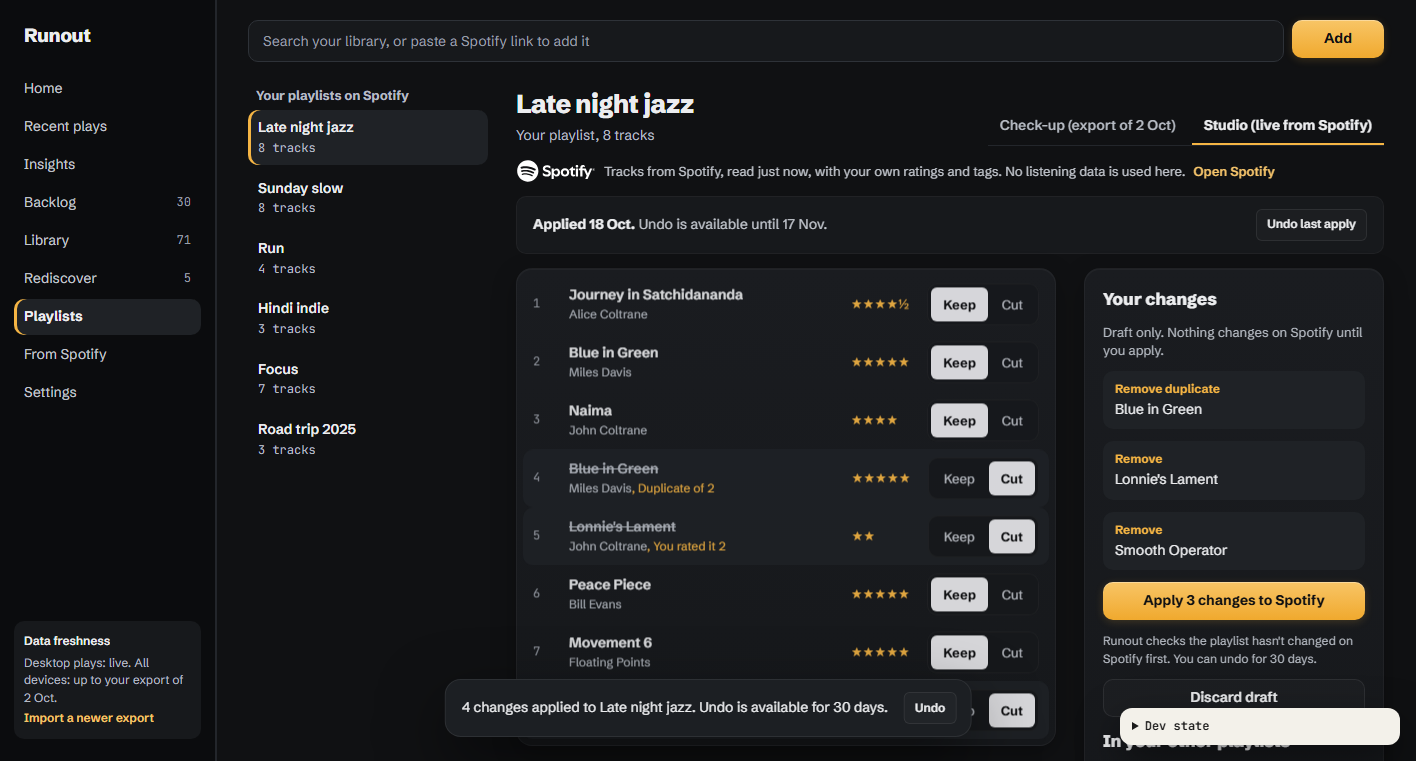
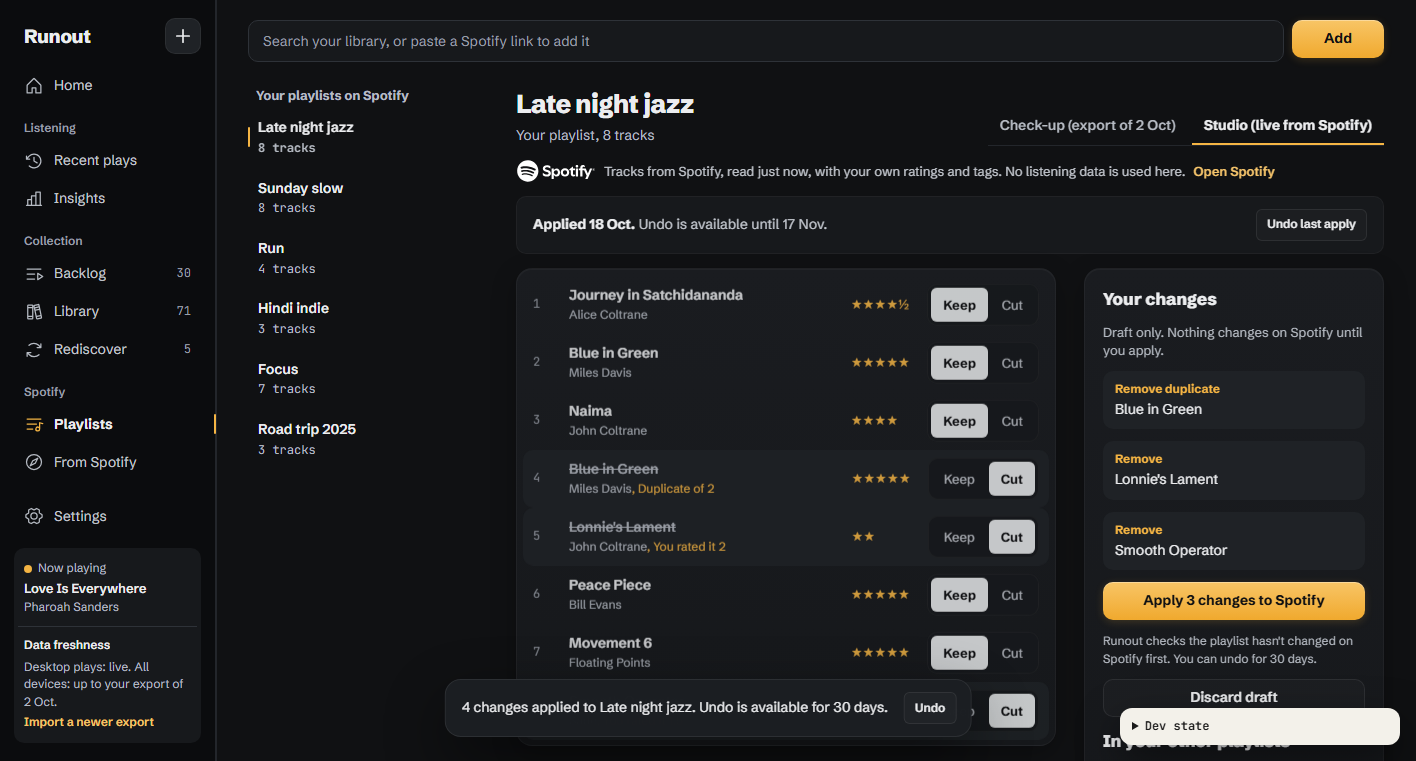
M9 rail redesign: grouped nav, visible Quick add, now playing on every screen, marker selected state
- Rail: wordmark + Quick add (Ctrl+N made visible); Home, then Listening / Collection / Spotify
  groups (12px faint names, icons always shown); Settings apart at the foot
- One status card: Now playing (live dot, track, artist; opens Home) above data freshness
- Selected page (user: pill + accent edge looked generic): no fill, bright bold label, accent
  icon, a 2x20 accent marker on the rail divider that springs between pages; list rows match
- Collapsed rail (<1100px): icons with tooltips, groups as hairlines, status card hidden
- DESIGN §4 shell + selected state documented

diff --git a/src/components/Shell.tsx b/src/components/Shell.tsx
@@ -1,15 +1,17 @@
-// App shell (DESIGN §4): rail with nav + mono counts + freshness box, main column, offline banner,
+// App shell (DESIGN §4): rail (wordmark + Quick add, grouped nav with one springing indicator, Settings at the foot,
+// status card = now playing + freshness), main column, offline banner,
 // global quick-add dialog and shortcuts. Pages render their own <Topbar>.
-import { lazy, Suspense, useCallback, useEffect, useState, type FormEvent, type ReactNode } from "react";
+import { lazy, Suspense, useCallback, useEffect, useLayoutEffect, useRef, useState, type FormEvent, type ReactNode } from "react";
 import { NavLink, Outlet, useLocation, useNavigate } from "react-router-dom";
 import {
-  ArrowsClockwiseIcon, BooksIcon, ChartBarIcon, ClockCounterClockwiseIcon, CompassIcon, GearSixIcon, HouseIcon, PlaylistIcon, QueueIcon,
+  ArrowsClockwiseIcon, BooksIcon, ChartBarIcon, ClockCounterClockwiseIcon, CompassIcon, GearSixIcon, HouseIcon, PlaylistIcon, PlusIcon, QueueIcon,
 } from "@phosphor-icons/react";
-import { getCapture, getCounts, getFreshness, getLoggerStatus, invalidateOnDataEvents, MOCK, onEvent, recordPageVisit } from "../api";
+import { getCapture, getCounts, getFreshness, getLoggerStatus, invalidateOnDataEvents, MOCK, onEvent, recordPageVisit, type LoggerStatus } from "../api";
 import { useApi, useOnline } from "../hooks/useApi";
 import { useRelease } from "../hooks/useRelease";
 import { useShortcuts, type ShortcutAction } from "../hooks/useShortcuts";
 import { fieldButton, freshnessText } from "./logic";
+import { LiveDot } from "./ui";
 import { QuickAddCtx, useQuickAdd, type QuickAddOpts } from "./QuickAddContext";
 import QuickAdd from "./QuickAdd";
 import { pl } from "../lib/format";
@@ -17,34 +19,86 @@ import { pl } from "../lib/format";
 // Dev builds only: a shipped build drops the switcher. The mocks themselves go only when VITE_MOCK=0 (api.ts).
 const DevSwitcher = import.meta.env.DEV && MOCK ? lazy(() => import("./DevSwitcher")) : () => null;
 
-const NAV: { to: string; label: string; icon: ReactNode; count?: "backlog" | "library" | "revisit"; rel?: "r2" | "r3" }[] = [
-  { to: "/home", label: "Home", icon: <HouseIcon size={20} /> },
-  { to: "/plays", label: "Recent plays", icon: <ClockCounterClockwiseIcon size={20} />, rel: "r2" },
-  { to: "/insights", label: "Insights", icon: <ChartBarIcon size={20} />, rel: "r2" },
-  { to: "/backlog", label: "Backlog", icon: <QueueIcon size={20} />, count: "backlog" },
-  { to: "/library", label: "Library", icon: <BooksIcon size={20} />, count: "library" },
-  { to: "/rediscover", label: "Rediscover", icon: <ArrowsClockwiseIcon size={20} />, count: "revisit" },
-  { to: "/playlists", label: "Playlists", icon: <PlaylistIcon size={20} />, rel: "r2" },
-  { to: "/spotify", label: "From Spotify", icon: <CompassIcon size={20} />, rel: "r3" },
-  { to: "/settings", label: "Settings", icon: <GearSixIcon size={20} /> },
+type Nav = { to: string; label: string; icon: ReactNode; count?: "backlog" | "library" | "revisit"; rel?: "r2" | "r3" };
+// M9 rail: grouped by what you're doing (DESIGN §4). Home stands alone; Settings sits apart at the bottom.
+const GROUPS: { name?: string; items: Nav[] }[] = [
+  { items: [{ to: "/home", label: "Home", icon: <HouseIcon size={20} /> }] },
+  { name: "Listening", items: [
+    { to: "/plays", label: "Recent plays", icon: <ClockCounterClockwiseIcon size={20} />, rel: "r2" },
+    { to: "/insights", label: "Insights", icon: <ChartBarIcon size={20} />, rel: "r2" },
+  ] },
+  { name: "Collection", items: [
+    { to: "/backlog", label: "Backlog", icon: <QueueIcon size={20} />, count: "backlog" },
+    { to: "/library", label: "Library", icon: <BooksIcon size={20} />, count: "library" },
+    { to: "/rediscover", label: "Rediscover", icon: <ArrowsClockwiseIcon size={20} />, count: "revisit" },
+  ] },
+  { name: "Spotify", items: [
+    { to: "/playlists", label: "Playlists", icon: <PlaylistIcon size={20} />, rel: "r2" },
+    { to: "/spotify", label: "From Spotify", icon: <CompassIcon size={20} />, rel: "r3" },
+  ] },
 ];
+const SETTINGS: Nav = { to: "/settings", label: "Settings", icon: <GearSixIcon size={20} /> };
 
 function Rail() {
   const { r2, r3 } = useRelease();
   const counts = useApi(getCounts).data;
+  const add = useQuickAdd();
+  const loc = useLocation();
+  const ref = useRef<HTMLElement>(null);
+  // One accent marker on the rail edge springs to the current page (same spring as the tabs).
+  const [ind, setInd] = useState<{ y: number } | null>(null);
+  useLayoutEffect(() => {
+    const el = ref.current;
+    if (!el) return;
+    const place = () => {
+      const a = el.querySelector<HTMLElement>('.nav-item[aria-current="page"]');
+      setInd(a ? { y: a.offsetTop + (a.offsetHeight - 20) / 2 } : null); // 20 = marker height
+    };
+    place();
+    if (typeof ResizeObserver === "undefined") return;
+    const ro = new ResizeObserver(place);
+    ro.observe(el);
+    return () => ro.disconnect();
+  }, [loc.pathname, r2, r3]);
+  const link = (n: Nav) => (
+    <NavLink key={n.to} to={n.to} className="nav-item" aria-label={n.label} title={n.label}>
+      <span className="nav-label"><span className="nav-icon" aria-hidden>{n.icon}</span><span className="nav-text">{n.label}</span></span>
+      <span className="count">{n.count && counts ? counts[n.count] : ""}</span>
+    </NavLink>
+  );
+  const shown = (n: Nav) => !n.rel || (n.rel === "r2" ? r2 : r3);
   return (
     <aside className="rail">
-      <NavLink className="logo" to="/home">Runout</NavLink>
-      <nav className="nav" aria-label="Main">
-        {NAV.filter((n) => !n.rel || (n.rel === "r2" ? r2 : r3)).map((n) => (
-          <NavLink key={n.to} to={n.to} className="nav-item" aria-label={n.label}>
-            <span className="nav-label"><span className="nav-icon" aria-hidden>{n.icon}</span><span className="nav-text">{n.label}</span></span>
-            <span className="count">{n.count && counts ? counts[n.count] : ""}</span>
-          </NavLink>
-        ))}
+      <div className="rail-head">
+        <NavLink className="logo" to="/home">Runout</NavLink>
+        <button type="button" className="icon-btn rail-add" aria-label="Quick add" title="Quick add (Ctrl+N)" onClick={() => add()}><PlusIcon size={18} weight="bold" /></button>
+      </div>
+      <nav ref={ref} className="nav" aria-label="Main">
+        {GROUPS.map((g) => {
+          const items = g.items.filter(shown);
+          if (!items.length) return null;
+          return g.name
+            ? <div key={g.name} role="group" aria-label={g.name} className="nav-group"><span className="nav-group-name" aria-hidden>{g.name}</span>{items.map(link)}</div>
+            : items.map(link);
+        })}
+        <div className="nav-foot">{link(SETTINGS)}</div>
+        {ind && <span className="nav-ind" style={{ transform: `translateY(${ind.y}px)` }} aria-hidden />}
       </nav>
       {r2 ? <FreshnessBox /> : <CaptureBox waiting={counts?.name_needed ?? 0} />}
     </aside>
+  );
+}
+
+/** What's playing, on every screen (was Home only): live dot, track, artist; opens Home's Now playing card. */
+function NowMini({ logger }: { logger: LoggerStatus | undefined }) {
+  const t = logger?.state === "listening" ? logger.now_playing : null;
+  if (!t) return null;
+  return (
+    <NavLink to="/home" className="rail-now" aria-label={`Now playing: ${t.track_name} by ${t.artist_name}`}>
+      <span className="flex items-center gap-1.5 text-xs text-muted"><LiveDot />Now playing</span>
+      <span className="font-semibold truncate">{t.track_name}</span>
+      <span className="text-muted text-xs truncate">{t.artist_name}</span>
+    </NavLink>
   );
 }
 
@@ -53,6 +107,7 @@ function FreshnessBox() {
   const logger = useApi(getLoggerStatus).data;
   return (
     <div className="rail-box">
+      <NowMini logger={logger} />
       <span className="font-semibold">Data freshness</span>
       <span className="text-muted leading-[1.45]">{freshnessText(f, logger?.state)}</span>
       <NavLink to="/import/1" className="font-semibold">Import a newer export</NavLink>

diff --git a/src/styles/app.css b/src/styles/app.css
@@ -19,15 +19,28 @@ mark { background: rgba(245,181,68,0.3); color: var(--color-text); border-radius
 h1, h2 { text-wrap: balance; }
 .tile .t, .card a, .card span { overflow-wrap: break-word; hyphens: auto; }
 
-.rail { align-self: flex-start; flex: 0 0 216px; background: var(--color-rail); border-right: 1px solid var(--color-line); padding: 22px 14px; display: flex; flex-direction: column; gap: 22px; position: sticky; top: 0; height: 100vh; }
+.rail { align-self: flex-start; flex: 0 0 216px; background: var(--color-rail); border-right: 1px solid var(--color-line); padding: 18px 14px; display: flex; flex-direction: column; gap: 14px; position: sticky; top: 0; height: 100vh; }
 .logo { padding: 0 10px; font-weight: 800; font-size: 19px; letter-spacing: -0.02em; color: var(--color-text); }
-.nav { display: flex; flex-direction: column; gap: 2px; }
-.nav-item { display: flex; justify-content: space-between; align-items: center; height: 36px; padding: 0 10px; border-radius: 10px; color: var(--color-text-2); transition: background 150ms, color 150ms; }
-.nav-item:hover { background: var(--color-surface); color: var(--color-text); }
-.nav-item:active { background: var(--color-surface-2); }
-.nav-item[aria-current="page"] { background: var(--color-surface-2); color: var(--color-text); font-weight: 700; box-shadow: inset 3px 0 0 var(--color-accent); }
+/* M9 rail: head (wordmark + Quick add), grouped nav with one springing indicator, Settings at the foot, now playing + freshness */
+.rail-head { display: flex; align-items: center; justify-content: space-between; gap: 8px; }
+.rail-add { width: 30px; height: 30px; background: var(--color-surface); box-shadow: inset 0 0 0 1px rgba(255,255,255,0.06); }
+.nav { position: relative; flex: 1 1 auto; display: flex; flex-direction: column; gap: 2px; }
+.nav-group { display: flex; flex-direction: column; gap: 2px; margin-top: 14px; }
+.nav-group-name { padding: 0 10px 4px; font-size: 12px; font-weight: 600; color: var(--color-faint); }
+.nav-foot { margin-top: auto; padding-top: 10px; display: flex; flex-direction: column; }
+/* Selected page: no fill. A short accent marker rides the rail edge (on its divider) and springs to the page; the label goes bright + bold and the icon takes the accent. */
+.nav-ind { position: absolute; right: -15px; top: 0; width: 2px; height: 20px; z-index: 2; border-radius: var(--radius-bar); background: var(--color-accent); transition: transform 360ms var(--ease-spring); pointer-events: none; }
+
+/* Now playing tops the status card; a hairline separates it from freshness */
+.rail-now { display: flex; flex-direction: column; gap: 2px; min-width: 0; margin: -6px -6px 6px; padding: 6px 6px 10px; border-radius: var(--radius-thumb) var(--radius-thumb) 0 0; border-bottom: 1px solid var(--color-line-2); color: var(--color-text); font-size: 13px; transition: background 150ms; }
+.rail-now:hover { background: var(--color-surface-2); color: var(--color-text); }
+.rail-now:active { background: var(--color-surface-3); }
+.nav-item { position: relative; z-index: 1; display: flex; justify-content: space-between; align-items: center; height: 36px; padding: 0 10px; border-radius: 10px; color: var(--color-text-2); transition: background 150ms, color 150ms, transform 100ms var(--ease-out); }
+.nav-item:hover:not([aria-current="page"]) { background: var(--color-surface); color: var(--color-text); }
+.nav-item:active:not([aria-current="page"]) { transform: scale(0.98); }
+.nav-item[aria-current="page"] { color: var(--color-text); font-weight: 700; }
 .nav-item .count { font-family: var(--font-mono); font-size: 12px; color: var(--color-faint); }
-.rail-box { margin-top: auto; display: flex; flex-direction: column; gap: 4px; padding: 12px 10px; border-radius: 10px; background: var(--color-surface); font-size: 12px; }
+.rail-box { display: flex; flex-direction: column; gap: 4px; padding: 12px 10px; border-radius: 10px; background: var(--color-surface); font-size: 12px; }
 .main { flex: 1 1 auto; min-width: 0; padding: 20px 32px 48px; display: flex; flex-direction: column; gap: 24px; max-width: 1240px; }
 .topbar { display: flex; flex-wrap: wrap; gap: 12px; align-items: center; }
 .topbar form { flex: 1 1 380px; display: flex; gap: 8px; min-width: 0; }
@@ -149,7 +162,9 @@ a.row:active, button.row:active { background: var(--color-surface-3); }
 .list > .row { animation: enter 200ms var(--ease-out) both; }
 @keyframes enter { from { opacity: 0; transform: translateY(4px); } to { opacity: 1; transform: none; } }
 .row.sel { background: var(--color-surface-2); }
-a.row[aria-current="page"] { background: var(--color-surface-2); box-shadow: inset 3px 0 0 var(--color-accent); }
+/* Current row: same language as the rail, a short accent marker and a bright label, no fill */
+a.row[aria-current="page"] { position: relative; color: var(--color-text); font-weight: 700; }
+a.row[aria-current="page"]::before { content: ""; position: absolute; left: 0; top: 50%; width: 2px; height: 20px; margin-top: -10px; border-radius: var(--radius-bar); background: var(--color-accent); }
 /* Plain list links (name + count): same hover/pressed as rows without a row's grid and padding. */
 a.lrow { border-radius: 10px; margin-inline: -8px; padding-inline: 8px; transition: background 150ms; }
 a.lrow:hover { background: var(--color-surface-2); }
@@ -265,13 +280,15 @@ input.toggle:disabled { opacity: 0.4; cursor: not-allowed; }
 .proto a { color: #7A4A00; }
 .proto .grid { display: grid; grid-template-columns: 1fr 1fr; gap: 2px 8px; }
 
-@media (max-width: 1100px) { .rail { flex-basis: 72px; } .rail .count, .rail-box { display: none; } }
+@media (max-width: 1100px) { .rail { flex-basis: 72px; } .rail .count, .rail-box, .rail-now, .nav-group-name { display: none; } .rail-head { flex-direction: column; } .nav-group { margin-top: 8px; padding-top: 8px; border-top: 1px solid var(--color-line); } }
 
 /* ---------- React port additions */
 dialog.dialog { color: var(--color-text); margin: 72px auto auto; }
 dialog.dialog::backdrop { background: rgba(5,6,7,0.62); }
 .nav-label { display: inline-flex; align-items: center; gap: 10px; min-width: 0; }
-.nav-icon { display: none; }
+.nav-icon { display: inline-flex; color: var(--color-muted); transition: color 150ms; }
+.nav-item:hover .nav-icon { color: var(--color-text); }
+.nav-item[aria-current="page"] .nav-icon { color: var(--color-accent); }
 a.card { display: flex; }
 @media (max-width: 1100px) {
   .app.has-rail { background: linear-gradient(90deg, var(--color-rail) 0 72px, var(--color-line) 72px 73px, var(--color-bg) 73px); }

diff --git a/docs/MILESTONES.md b/docs/MILESTONES.md
@@ -18,7 +18,7 @@ Spec-driven rule: before a milestone starts, its specs are current (BRD, [TSD](T
 | M9 Interactive UI refinement | UI | all | — | — | per screen (Settings done 24 Oct 2026) |
 
 ### Status (24 Oct 2026)
-- **M9 started 24 Oct 2026** (user: refine the UI with taste + modern UI skills, highly interactive elements with animation, Settings first). DESIGN §2 motion dial 5 → 7. WI 1 Settings done: tabs (one section at a time, spring underline, panel slides in, `?tab=` deep links), toggle switches with rollback, pointer spotlight, count-up metrics, animated disclosure, copy pairing code. WI 2 done: switches for every on/off setting app-wide, spring check-mark checkboxes, spring segment indicators; new `check.py` "hover keeps selected". Native CSS/JS only, no new dependency. check.py green, journeys 31/31; unrelated screens' screenshots differ by timing noise only. Consistency sweep 24 Oct 2026 (external audit, 18 findings + user: tabs/toggles/buttons consistent app-wide; three parallel agents by page group): every tablist draws as tabs with a sliding panel (`useSlide`), every on/off is `Switch`, one button rule (DESIGN §5 Buttons), shared `CountUp` in `Stat`, `CopyButton` on every value typed elsewhere, radii on the 3/6/10/16 scale, one danger-frame token, design-system page updated; new `check.py` "control consistency" (radius scale, aria-pressed labels) and "hover keeps selected" now covers box-shadow/border-color. Next: WI 3 (Home / Now playing) per [plan](plans/M9-motion-ui.md).
+- **M9 started 24 Oct 2026** (user: refine the UI with taste + modern UI skills, highly interactive elements with animation, Settings first). DESIGN §2 motion dial 5 → 7. WI 1 Settings done: tabs (one section at a time, spring underline, panel slides in, `?tab=` deep links), toggle switches with rollback, pointer spotlight, count-up metrics, animated disclosure, copy pairing code. WI 2 done: switches for every on/off setting app-wide, spring check-mark checkboxes, spring segment indicators; new `check.py` "hover keeps selected". Native CSS/JS only, no new dependency. check.py green, journeys 31/31; unrelated screens' screenshots differ by timing noise only. Consistency sweep 24 Oct 2026 (external audit, 18 findings + user: tabs/toggles/buttons consistent app-wide; three parallel agents by page group): every tablist draws as tabs with a sliding panel (`useSlide`), every on/off is `Switch`, one button rule (DESIGN §5 Buttons), shared `CountUp` in `Stat`, `CopyButton` on every value typed elsewhere, radii on the 3/6/10/16 scale, one danger-frame token, design-system page updated; new `check.py` "control consistency" (radius scale, aria-pressed labels) and "hover keeps selected" now covers box-shadow/border-color. Rail redesign 24 Oct 2026 (user: rethink the sidebar and feature placement, taste skill): grouped nav (Listening / Collection / Spotify), springing indicator, visible Quick add, Settings at the foot, now playing on every screen in the status card. Next: WI 3 (Home / Now playing) per [plan](plans/M9-motion-ui.md).
 - **M8 build installed 24 Oct 2026** (`ebf9c02`, user-approved): data backed up first to `%LOCALAPPDATA%\Runout-preM8-backup-20261024` (164 files, 207 MB), NSIS `/S` over the 22 Oct install, launched; real DB migrated to `user_version` 7 (`backlog_history` present), `quick_check` ok, 180,302 listening events and 7 records intact. U-5 daily use now runs on the M8 build. M8 waits only on U-5 and G-40.
 - **M8 23 Oct 2026**: WI 1–4 done on `dev` (`68b23e3`, `2b8de12`). WI 2: Rust hardening audit, 3 defects fixed with tests. WI 3: five drawn states, sliding segment, row enter. WI 4: BRD §4.4 candidates evaluated in the plan; the user picks (recommendation: listening analytics first, then Markdown/CSV export). External audits (spec + UI taste): 16 findings, all fixed except the G-44 low items. A re-audit found 3 more (corrupt deflate stream mapped to `io`, `awake_since` on a tick that doesn't observe, empty-page paging cycles), fixed with tests. Acceptance 2/5 ticked. The other three wait on U-5 daily use and G-40 (live sign-in). G-38 closed by a side-by-side netwatch run (no WebView2 calls). New gaps: G-42, G-43, G-44.
 - **M8 gap re-check 22 Oct 2026**: of the 10 gaps closed in `e0b93be`, G-6 (by design), G-16, G-31, G-34, G-39, G-41 are closed; G-16 had a bug (every new backlog item counted as moved) and G-39/G-41 were re-fixed in code; G-33, G-37 accepted; G-38 (switches unverified) and G-40 (never run live) reopened. Still open: G-21, G-27, G-28, G-32, G-38, G-40 (daily use, U-5).

diff --git a/docs/DESIGN.md b/docs/DESIGN.md
@@ -78,13 +78,13 @@ Scale: 13 / 14 (body) / 15 / 17 / 20 (section) / 26 (stat, page title) / 32 (det
 | Hover | Surface one step lighter (`--surface` → `--surface-2`) or `--elev-1-hover`; text unchanged |
 | Pressed | `scale(0.98)`; primary button gradient flips darker (`#F0A92E` → `#E39A1F`) |
 | Focus (keyboard) | 2px `--accent` outline, 2px offset; never removed |
-| Selected | Light fill (`#ECEDEF` on dark text) for segments; `--indicator` for nav; accent underline for page-level tabs (`Seg line`); accent fill + ink check for checkboxes; accent track + ink thumb for switches |
+| Selected | Light fill (`#ECEDEF` on dark text) for value segments; nav and current list row: bright bold label + accent icon + 2×20 px accent marker, no fill; accent underline for page-level tabs (`Seg line`); accent fill + ink check for checkboxes; accent track + ink thumb for switches |
 | Disabled | 40% opacity, no hover, `cursor: not-allowed`, still announced |
 | Loading | Label replaced by a 3-dot progress (no spinner); width kept |
 | Error | `--danger` border + message below the control |
 
 ## 4. Layout
-- **Shell:** left rail 208–220 px (logo, nav with counts, data-freshness box) + main content (max 1200 px, fluid). Rail collapses to icons below 1100 px window width.
+- **Shell:** left rail 216 px + main content (max 1240 px, fluid). Rail (M9 redesign, 24 Oct 2026): wordmark + **Quick add** button (Ctrl+N made visible); nav grouped by what you're doing: Home, then *Listening* (Recent plays, Insights), *Collection* (Backlog, Library, Rediscover with mono counts), *Spotify* (Playlists, From Spotify), group names in 12 px `--faint`, never uppercase; icons always shown; the current page has no fill (user, 24 Oct 2026: the grey pill + accent edge read as generic): its label goes bright and bold, its icon takes the accent, and a short 2×20 px accent marker sitting on the rail's divider springs to it (360 ms); list rows use the same marker; **Settings** sits apart at the foot; one status card at the bottom: **Now playing** (live dot, track, artist; on every screen, opens Home) above data freshness. Below 1100 px the rail collapses to icons with tooltips, groups become hairline dividers, the status card hides.
 - **Top bar** in main: one combined field “Search your library, or paste a Spotify link to add it” + Add, and the page’s range or filter control.
 - Window minimum 900 × 600 (TSD tauri.conf).
 
